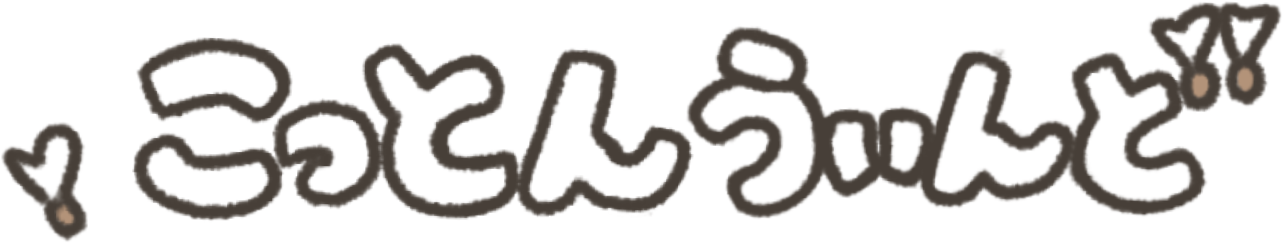
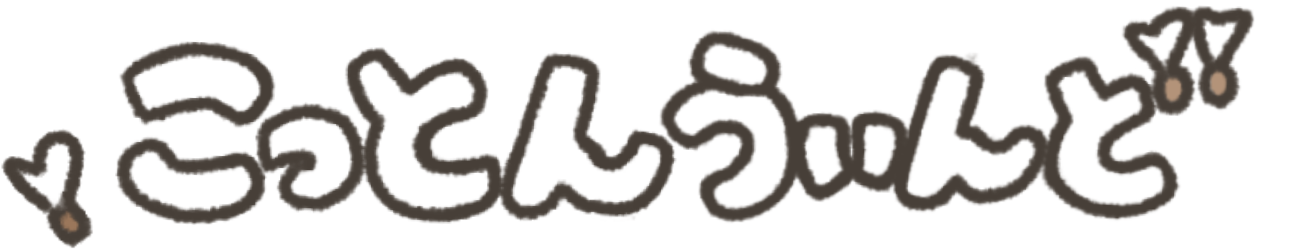
ロゴの微調整とキャッシュ対策

diff --git a/src/routes/Home.tsx b/src/routes/Home.tsx
@@ -18,6 +18,7 @@ export default function Home() {
                 src="/static/images/webp/button_gallery_default.webp"
                 hoverSrc="/static/images/webp/button_gallery_hover.webp"
                 alt="GALLERY"
+                v="2"
               />
             </Link>
           </li>
@@ -27,6 +28,7 @@ export default function Home() {
                 src="/static/images/webp/button_character_default.webp"
                 hoverSrc="/static/images/webp/button_character_hover.webp"
                 alt="CHARACTER"
+                v="2"
               />
             </Link>
           </li>
@@ -36,6 +38,7 @@ export default function Home() {
                 src="/static/images/webp/button_sound_default.webp"
                 hoverSrc="/static/images/webp/button_sound_hover.webp"
                 alt="SOUND"
+                v="2"
               />
             </Link>
           </li>
@@ -45,6 +48,7 @@ export default function Home() {
                 src="/static/images/webp/button_links_default.webp"
                 hoverSrc="/static/images/webp/button_links_hover.webp"
                 alt="LINKS"
+                v="2"
               />
             </Link>
           </li>
@@ -54,6 +58,7 @@ export default function Home() {
                 src="/static/images/webp/button_works_default.webp"
                 hoverSrc="/static/images/webp/button_works_hover.webp"
                 alt="WORKS"
+                v="2"
               />
             </Link>
           </li>
@@ -63,6 +68,7 @@ export default function Home() {
                 src="/static/images/webp/button_about_default.webp"
                 hoverSrc="/static/images/webp/button_about_hover.webp"
                 alt="ABOUT"
+                v="2"
               />
             </Link>
           </li>

diff --git a/src/serverLayout.tsx b/src/serverLayout.tsx
@@ -31,7 +31,7 @@ export function DefaultBody({ after }: { after?: React.ReactNode }) {
             <a href="/">
               <h2>
                 <img
-                  src="/static/images/webp/こっとんうぃんどロゴ.webp"
+                  src="/static/images/webp/こっとんうぃんどロゴ.webp?v=2"
                   alt={import.meta.env.VITE_TITLE}
                 />
               </h2>
@@ -176,7 +176,7 @@ export function ServerSimpleLayout({
             <a id="siteTitle" href="/">
               <h2>
                 <img
-                  src="/static/images/webp/こっとんうぃんどロゴ.webp"
+                  src="/static/images/webp/こっとんうぃんどロゴ.webp?v=2"
                   alt={import.meta.env.VITE_TITLE}
                 />
               </h2>

diff --git a/src/components/layout/ImageMee.tsx b/src/components/layout/ImageMee.tsx
@@ -166,19 +166,22 @@ interface ImgSwitchProps
     HTMLImageElement
   > {
   hoverSrc?: string;
+  v?: string | number;
 }
 
 export function ImgSwitch({
   src,
   hoverSrc,
   className,
+  v,
   ...args
 }: ImgSwitchProps) {
+  let queryStr = v ? "?v=" + v : "";
   className = className ? className + " " : "";
   return (
     <div className="switch-img">
-      {src ? <img src={src} className={className + "normal"} {...args} /> : null}
-      {hoverSrc ? <img src={hoverSrc} className={className + "hover"} {...args} /> : null}
+      {src ? <img src={src + queryStr} className={className + "normal"} {...args} /> : null}
+      {hoverSrc ? <img src={hoverSrc + queryStr} className={className + "hover"} {...args} /> : null}
     </div>
   );
 }

diff --git a/src/routes/LinkPage.tsx b/src/routes/LinkPage.tsx
@@ -21,14 +21,14 @@ export default function LinkPage() {
         <div>
           <div>200×40 px</div>
           <img
-            src="/static/images/png/banner_cottonwind_200_40.png"
+            src="/static/images/banner/banner_cottonwind_200_40.png"
             alt="200×40バナー"
           />
         </div>
         <div>
           <div>234×60 px</div>
           <img
-            src="/static/images/png/banner_cottonwind_234_60.png"
+            src="/static/images/banner/banner_cottonwind_234_60.png"
             alt="234×60バナー"
           />
         </div>

diff --git a/src/components/layout/Header.tsx b/src/components/layout/Header.tsx
@@ -22,7 +22,7 @@ export const SiteTitle = React.memo(function SiteTitle({
         }}
       >
         <h2>
-          <ImageMee src="/static/images/webp/こっとんうぃんどロゴ.webp" alt={title} />
+          <ImageMee src="/static/images/webp/こっとんうぃんどロゴ.webp?v=2" alt={title} />
         </h2>
       </Link>
     </div>
